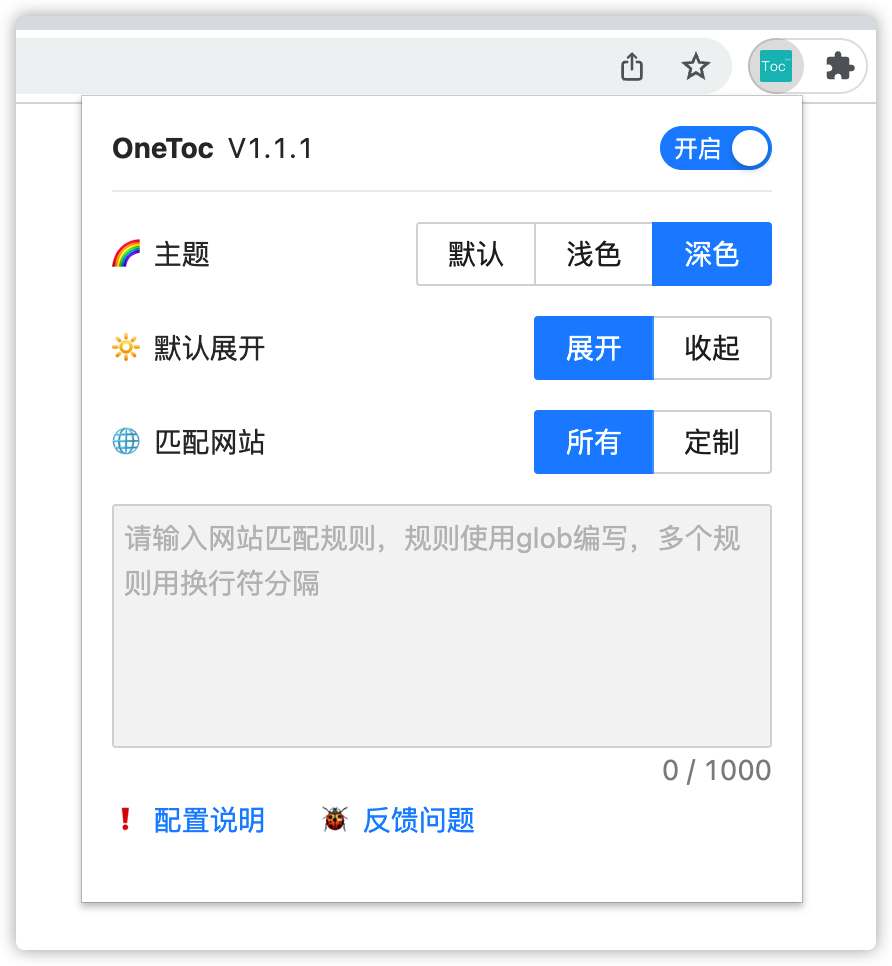
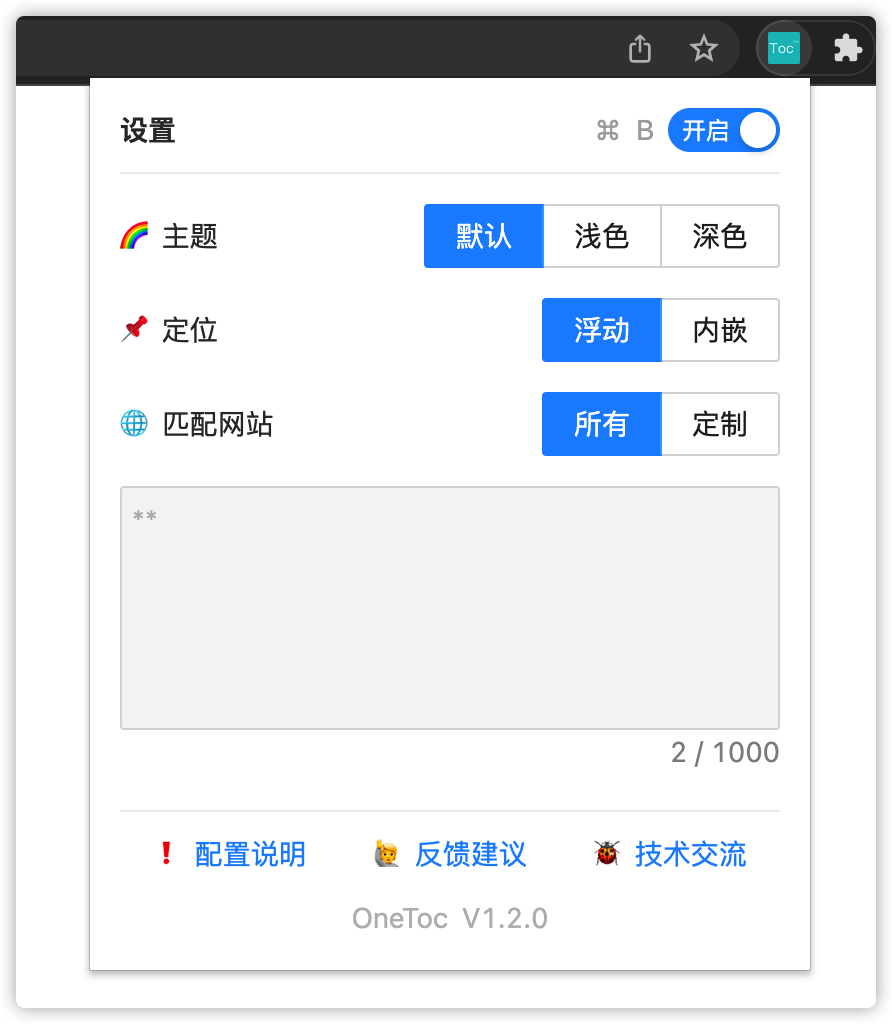
docs: 修改readme

diff --git a/README.md b/README.md
@@ -10,51 +10,83 @@
 
 </div>
 
-为技术文档、技术博客等网站添加导航目录的浏览器插件，以提供更好的阅读体验。
+为文档、博客、论文等网站添加导航目录的浏览器插件，提供更好的阅读体验。
 <br>
-It's a browser extension which can append table of contents to the websites such as technical docs and technical blogs, to provide a better reading experience.
+It's a browser extension which can append table of contents to the websites such as docs、 blogs and papers, to provide better reading experience.
 
-![](screenshots/1.png)
+## 插件效果
+
+![screenshots](screenshots/1.png)
 
 ## 感谢
+
 感谢 JetBrains 提供的开源开发许可证支持！<br>
 
-<img src="https://resources.jetbrains.com/storage/products/company/brand/logos/jb_beam.svg" width="100px" alt="JetBrains Logo (Main) logo."><img src="https://resources.jetbrains.com/storage/products/company/brand/logos/WebStorm_icon.svg" width="100px" alt="WebStorm logo.">
+<img src="https://resources.jetbrains.com/storage/products/company/brand/logos/jb_beam.svg" width="50px" alt="JetBrains Logo (Main) logo.">&emsp;&emsp;<img src="https://resources.jetbrains.com/storage/products/company/brand/logos/WebStorm_icon.svg" width="50px" alt="WebStorm logo.">
 
-## 如何使用
-### Edge
-直接到[Edge插件商店](https://microsoftedge.microsoft.com/addons/detail/onetoc/jkgapfniamkoblbmbhdjlnfklihlpjmc)安装即可 
+## 特性
 
-### Chrome
-- 下载[zip包](https://github.com/Whilconn/one-toc/releases)并解压
-- 打开 chrome://extensions/ 页面 
-- 点击右上角开启开发者模式 
-- 点击左上角加载已解压的扩展程序，选择扩展程序目录即可
+- 页面加载完自动解析网页中的标题：`H1 ~ H6`
+- 生成网页的导航目录，便于阅读和跳转
+- 可自由拖拽
+- 随页面滚动自动高亮当前标题
+- 可设置为默认开启或关闭，且支持实时修改和快捷键修改
+- 可设置浮动或内嵌定位方式
+- 支持深色主题
+- 支持自定义显示规则，可在全部网页显示或特定网页显示
+
+## 插件安装
+
+### Edge 浏览器
+
+打开[Edge插件商店](https://microsoftedge.microsoft.com/addons/detail/onetoc/jkgapfniamkoblbmbhdjlnfklihlpjmc)页面，点击获取进行安装
+
+### Chrome 浏览器
+
+- 下载[zip包](https://github.com/Whilconn/one-toc/releases)（注意下载的是包名形式为 OneToc-vx.x.x.zip 的包，不要下载Source Code包）
+- 解压到任意目录，如 `~/one-toc/`
+- 在浏览器打开 chrome://extensions/ 页面
+- 点击页面右上角开启 `开发者模式`
+- 点击页面左上角 `加载已解压的扩展程序`，最后选择上述解压目录
 
 ## 配置说明
-> 选择开启与默认展开、且页面链接满足匹配规则时，页面才会显示导航目录。修改配置会立即生效。
 
-![](screenshots/popup.png)
+点击地址栏右侧的 `OneToc` 图标即可打开配置弹窗，修改配置会立即生效。
+
+![popup](screenshots/popup.png)
 
 ### 开启和关闭
-> 插件可选择开启或关闭两种状态
-- 插件默认开启，打开页面显示导航目录
-- 插件关闭时，打开页面不显示导航目录
+
+插件提供开启或关闭2种状态
+
+- 开启：默认选项，页面加载完成后自动显示 `OneToc`
+- 关闭：页面加载完成后不显示 `OneToc`
+- 快捷键：Mac `Command+B`，windows/linux `Ctrl+B`
 
 ### 主题
-> 插件提供默认、浅色、深色等3种主题
 
-### 默认展开
-> 打开新页面时插件的显示状态，收起状态只显示展开按钮，展开状态才会完整显示导航目录
-- 插件默认展开，打开新页面或刷新时自动展开
-- 选中收起时，打开新页面或刷新时目录自动收起，只显示圆形的展开按钮
+插件提供默认、浅色、深色等3种主题
+
+### 定位
+
+插件提供浮动、嵌入等2种定位
+
+- 浮动定位：默认选项，浮动于内容上方，可能会遮挡网页内容，可自由拖拽
+- 嵌入定位：嵌入网页左侧，将网页内容整体右移，不会遮挡网页内容，目前可拖拽
+
+> 嵌入效果与 `vscode` 左侧目录边栏类似，同样使用 `Command+B` 快捷键开启或关闭
 
 ### 匹配网站
-> 插件在哪些网站启用，默认为 `所有` 网站，也可以 `定制`；`定制` 模式下可自行编写匹配规则，符合匹配规则的页面才会显示导航目录
-- 匹配规则使用[glob](https://en.wikipedia.org/wiki/Glob_(programming))编写
-- 匹配所使用的库是[micromatch](https://github.com/micromatch/micromatch)
-- 示例1：匹配所有页面的规则为 `**`
-- 示例2：常用的技术网站匹配规则如下
+
+插件提供所有、定制等2种匹配方式
+
+- 所有：默认选项，在所有网站上显示 `OneToc`
+- 定制：在指定网站上显示 `OneToc`，需自行编写匹配规则，符合匹配规则的页面才会显示 `OneToc`
+  - 匹配规则请使用 [glob](https://en.wikipedia.org/wiki/Glob_(programming)) 编写
+  - 匹配逻辑使用的库是 [micromatch](https://github.com/micromatch/micromatch)
+  - 示例1：匹配所有页面的规则为 `**`
+  - 示例2：常用的技术网站匹配规则如下
+
 ```text
 *reactjs.org/(docs|blog)/**
 *zhihu.com/p/**
@@ -69,7 +101,7 @@ It's a browser extension which can append table of contents to the websites such
 ```
 
 ## 适配情况
-### 支持的网站
+
 - 知乎：https://zhuanlan.zhihu.com
 - 简书：https://www.jianshu.com
 - 开源中国：https://my.oschina.net
@@ -82,3 +114,10 @@ It's a browser extension which can append table of contents to the websites such
 - 掘金：https://juejin.cn
 - 思否：https://segmentfault.com
 - NCBI：https://www.ncbi.nlm.nih.gov
+- 其他...
+
+# License
+
+[MIT](./LICENSE)
+
+Copyright (c) 2022-present, Whilconn
